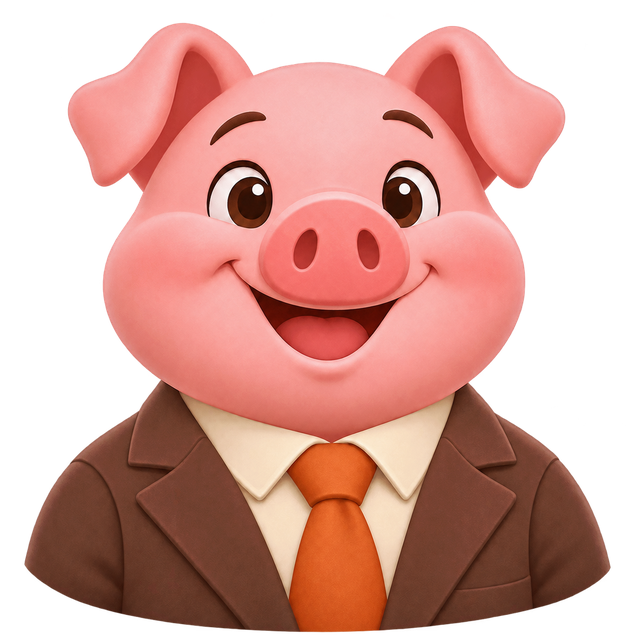
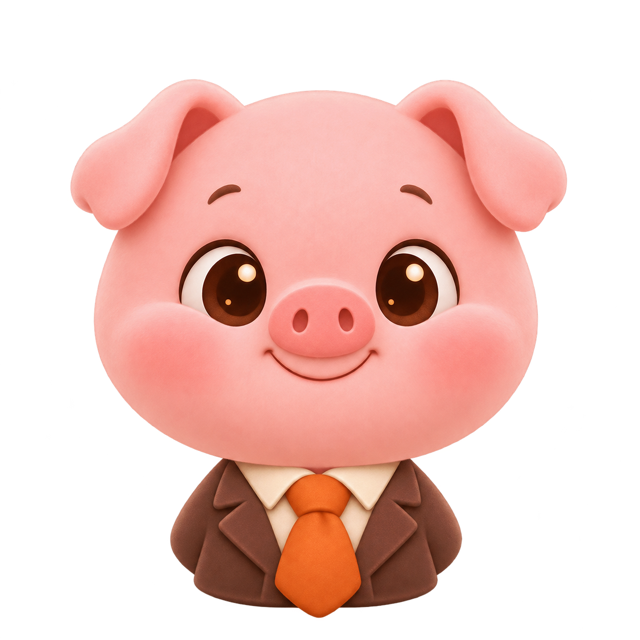
feat: refresh Bank Piggy with the younger mascot

diff --git a/apps/web/index.html b/apps/web/index.html
@@ -26,7 +26,7 @@
       href="https://fonts.googleapis.com/css2?family=Bricolage+Grotesque:opsz,wght@12..96,400;12..96,500;12..96,600;12..96,700&family=DM+Sans:wght@400;450;500;550;600;650;700&display=swap"
       rel="stylesheet"
     />
-    <link rel="icon" href="/assets/favicon.png" />
+    <link rel="icon" href="/assets/favicon.png?v=piglet-2" type="image/png" sizes="64x64" />
     <title>Bank Piggy — Your money, together</title>
   </head>
   <body>

diff --git a/docs/assets.md b/docs/assets.md
@@ -19,25 +19,28 @@ sources are [Amazon](https://github.com/simple-icons/simple-icons/blob/11.15.0/i
 
 ## Banker piggy and background
 
-Both original images were generated with the built-in `image_gen` tool. No API key or CLI fallback was used. The selected outputs are saved in this repository. The final mascot is a 640-pixel Lanczos downscale of the first built-in cleanup edit. The favicon is a 64-pixel Lanczos downscale of that final mascot. The background is a WebP conversion at quality 88.
+The mascot and background were generated with the built-in `image_gen` tool. The current mascot uses the approved younger piglet design: a larger head, round cheeks, a smaller snout, a gentle smile, and a tiny brown suit with an orange tie. The existing mascot was the reference image. The approved output was resampled with macOS `sips` to 640 pixels for the app and 64 pixels for the matching favicon. The background is a WebP conversion at quality 88.
 
 | Asset                                       | Dimensions | Format   | Size          |
 | ------------------------------------------- | ---------- | -------- | ------------- |
-| `apps/web/public/assets/banker-piggy.png`   | 640 × 640  | RGBA PNG | 406,153 bytes |
+| `apps/web/public/assets/banker-piggy.png`   | 640 × 640  | RGBA PNG | 352,164 bytes |
 | `apps/web/public/assets/warm-interior.webp` | 1672 × 941 | RGB WebP | 205,706 bytes |
-| `apps/web/public/assets/favicon.png`        | 64 × 64    | RGBA PNG | 8,648 bytes   |
+| `apps/web/public/assets/favicon.png`        | 64 × 64    | RGBA PNG | 6,635 bytes   |
 
-The mascot and favicon contain actual alpha transparency. Both generated images and the favicon were visually checked. The mascot stays readable at 64 pixels. Two built-in cleanup edits preserved the pig. The first edit was selected; the second increased stray pixels and was rejected. Small disconnected pixels remain at alpha 1/255. The image viewer exaggerates their red color; normal compositing makes them nearly invisible. No manual alpha removal was applied.
+The mascot and favicon preserve actual alpha transparency. The favicon URL carries the design version so browsers can fetch the new icon. The welcome illustration and sidebar use the same mascot file.
 
 ## Mascot prompt
 
 ```text
-Use case: logo-brand
-Asset type: Bank Piggy finance dashboard mascot, square icon and larger welcome illustration.
-Primary request: A friendly pink cartoon banker pig, head and upper torso, with a brown suit jacket, cream shirt, and burnt orange tie. Charming rounded polished illustration, expressive kind eyes, small ears, simple readable face, soft dimensional shading and crisp silhouette. Centered front-facing portrait, comfortably fits a square with small clear margins, readable at 48 to 80 pixels.
-Scene/backdrop: Genuine transparent alpha background; no backdrop, no ground plane.
-Color palette: Warm pink skin, chocolate brown jacket, cream shirt, burnt orange tie.
-Constraints: Only the pig and its clothing. No text, numbers, logos, coins, glasses, hats, props, frame, border, or watermark. Actual alpha transparency around the complete silhouette.
+Use case: precise-object-edit.
+Asset type: Bank Piggy mascot, a transparent square app icon and welcome illustration.
+Edit target: Image 1 is the current Bank Piggy mascot. Redesign this same banker pig to look much younger and cuter, like a cheerful little piglet playing dress-up as a banker.
+Change: Give him a larger round head relative to a much smaller body, soft plump cheeks, a short little button snout, large gentle dark-brown eyes with warm catchlights, small soft floppy ears, and a sweet small smile. Reduce the mature human-like eyebrows and broad adult shoulders. The expression should feel innocent, friendly, and charming, without the existing large adult-looking open-mouth grin.
+Keep: Pink pig identity, chocolate-brown suit jacket, cream shirt, burnt-orange necktie, centered front-facing head and upper torso. Use a tiny softly rounded jacket and a slightly oversized orange tie to make the outfit playful. No visible hands. Preserve the warm brown, cream, orange, and pink brand palette.
+Style: Polished dimensional cartoon illustration, soft velvety shading, rounded toy-like forms, a clear simple silhouette that stays readable at 64 pixels. Refined and warm rather than overly shiny plastic.
+Composition: One mascot only, comfortably centered in a square with a modest clear margin. The head occupies about three quarters of the character's height.
+Background: Genuine transparent alpha, clean antialiased edges, no speckles, no backdrop, no ground plane or cast shadow.
+Avoid: Text, logos, coins, props, hats, glasses, accessories, border, watermark, realistic animal fur, human child anatomy, or a full scene.
 ```
 
 Tool option: `transparent_background: true`.
@@ -53,14 +56,3 @@ Constraints: No people, text, UI, logos, watermark, office equipment, visible sc
 ```
 
 Tool option: `transparent_background: false`.
-
-## Selected cleanup edit prompt
-
-```text
-Use case: background-extraction
-Edit target: The provided Bank Piggy mascot PNG.
-Primary request: Clean only the transparent background and silhouette edge. Remove every disconnected red, white, or colored speckle, stray pixel cluster, and halo outside the pig's main silhouette, especially the speckles above the ears. Output a clean polished cutout with smooth antialiased edges and actual alpha transparency.
-Invariants: Preserve this exact pig identity and face, pink color, small ears, joyful expression, brown suit jacket, cream shirt, burnt orange tie, front-facing head/upper-torso composition and current proportions. Do not redesign, add or remove features, or change clothing, shading, pose or expression. Keep the complete pig centered in a square with a small transparent margin around it. No text, logos, watermark, props, added background or shadow plane.
-```
-
-Tool option: `transparent_background: true`. The original local PNG was the edit target.
